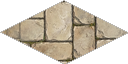
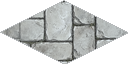
地面色调统一：石板去黄调青灰、汉白玉同步素白、水降饱和；汉白玉宫院扩到环路内缘消除裸草缝

diff --git a/shanhai/assets_src/tools/modv2/gen_ground_ai.py b/shanhai/assets_src/tools/modv2/gen_ground_ai.py
@@ -31,10 +31,10 @@ FILES = {
 }
 RIMS = {
     'grass': (78, 128, 52, 90),
-    'stone': (96, 89, 76, 110),
+    'stone': (86, 92, 98, 110),      # 青灰描边（石板去黄后统一冷调）
     'dirt': (122, 95, 60, 100),
     'water': (40, 105, 155, 120),
-    'marble': (166, 158, 138, 110),
+    'marble': (170, 168, 160, 110),
 }
 
 # 变体 → (类型, 窗口 x, y, 水平镜像, 180° 旋转)
@@ -76,6 +76,17 @@ def diamond_mask() -> Image.Image:
     return m
 
 
+def recolor(px: np.ndarray, mode: str) -> np.ndarray:
+    """地面统一色调：石板去黄 → 青灰（与汉白玉/青瓦建筑同调），水微降饱和。"""
+    lum = (px @ np.array([0.299, 0.587, 0.114], dtype=np.float32))[..., None]
+    if mode == 'stone_cool':     # 保 30% 原纹理色 + 70% 灰度，再轻微向青偏移
+        px = px * 0.30 + lum * 0.70
+        px = px * np.array([0.95, 1.0, 1.04], dtype=np.float32) * 1.06
+    elif mode == 'water_soft':   # 降饱和 15%，避免小水面过艳
+        px = px * 0.85 + lum * 0.15
+    return px
+
+
 def bake(seam: dict[str, np.ndarray], kind: str, x: int, y: int, flip: bool, rot180: bool,
          marble: bool = False) -> Image.Image:
     win = seam[kind][y:y + WIN_H, x:x + WIN_W]
@@ -86,8 +97,12 @@ def bake(seam: dict[str, np.ndarray], kind: str, x: int, y: int, flip: bool, rot
     if flip:
         im = im.transpose(Image.FLIP_LEFT_RIGHT)
     px = np.asarray(im.resize((W, H), Image.LANCZOS)).astype(np.float32)
-    if marble:  # 汉白玉：石板向暖白调色（保留淡缝）
-        base = np.array([218.0, 212.0, 196.0])
+    if kind == 'stone':
+        px = recolor(px, 'stone_cool')
+    elif kind == 'water':
+        px = recolor(px, 'water_soft')
+    if marble:  # 汉白玉：石板向素白调色（保留淡缝），与青灰石板同冷调
+        base = np.array([224.0, 222.0, 214.0])
         px = px * 0.45 + base * 0.55
     out = Image.new('RGBA', (W, H), (0, 0, 0, 0))
     rgb = Image.fromarray(np.clip(px, 0, 255).astype(np.uint8), 'RGB').convert('RGBA')
